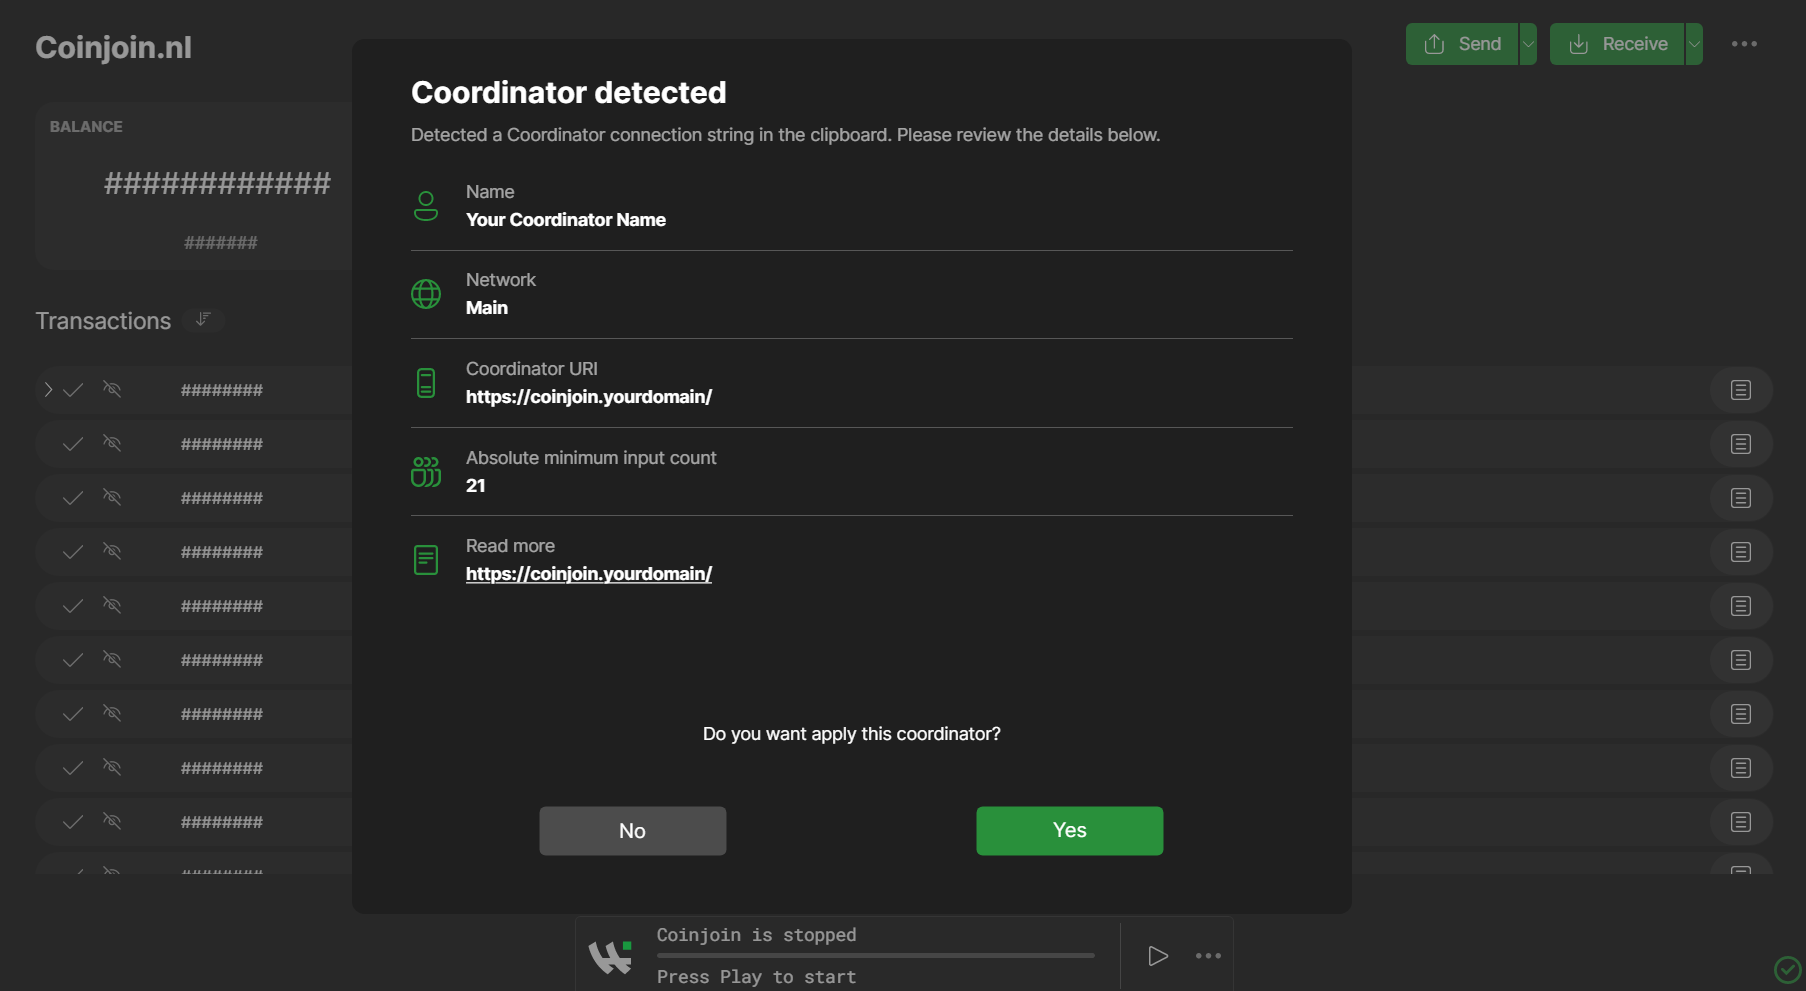
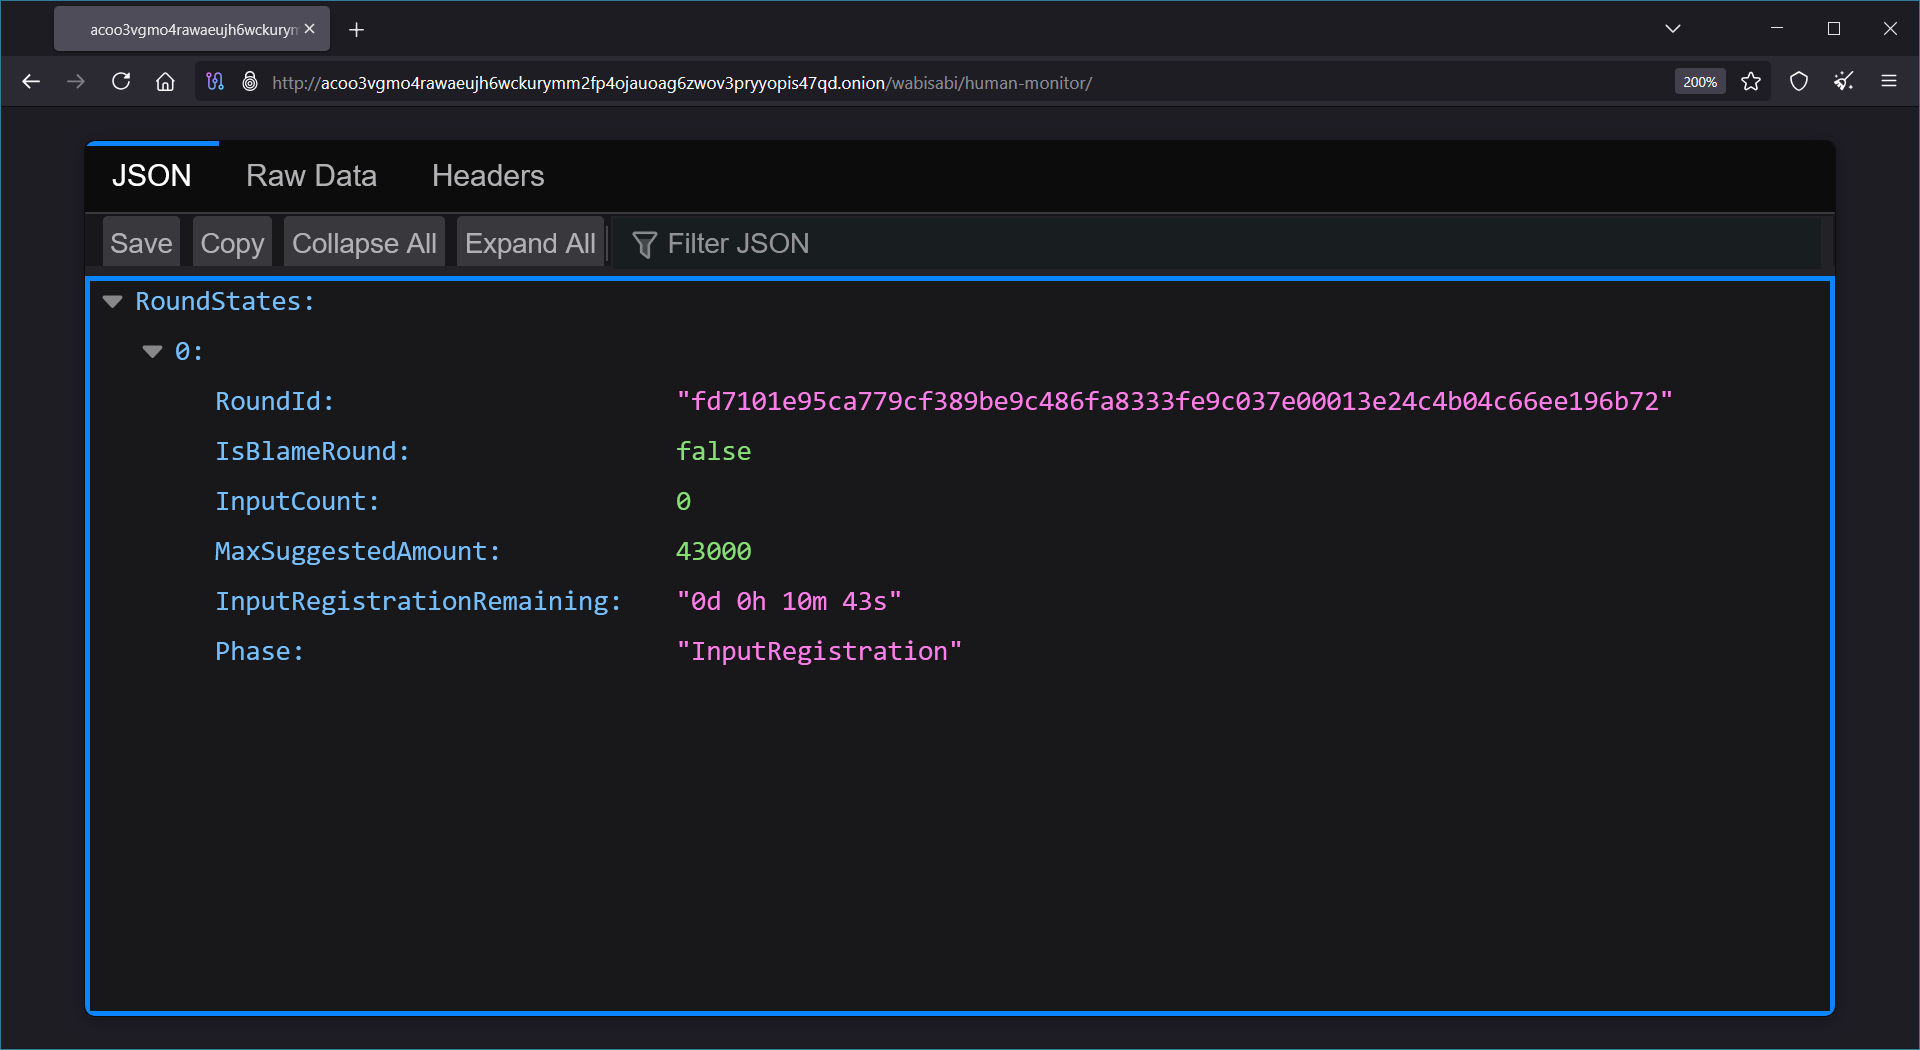
Added human-monitor image
There is an API accessible by web to check the current round, I've added this with an example image of Tor Browser.

diff --git a/tutorials/privacy/coinjoin-coordinator/en.md b/tutorials/privacy/coinjoin-coordinator/en.md
@@ -199,6 +199,12 @@ Simply start the coordinator with the command:
 ```
 ASPNETCORE_URLS="http://localhost:5001" wcoordinator
 ```
+You can monitor the current round and number of registered UTXO's/coins by checking (in Tor browser for .onion): 
+
+```
+http://coinjoin.yourdomain/wabisabi/human-monitor/
+```
+![detected](assets/en/01.webp)
 
 ### Optional: debugging coordinator server
 
@@ -211,8 +217,6 @@ rpcbind=127.0.0.1
 rpcuser=your_bitcoin_rpcuser
 rpcpassword=your_bitcoin_rpcpassword
 ```
-
-
 
 ### Optional: Running the backend server
 
@@ -233,7 +237,7 @@ name=Your%20Coordinator%20Name&network=main&coordinatorUri=https://coinjoin.your
 ```
 When a user copies the magic link and opens their Wasabi Wallet, the software will automatically show the coordinator dialog with your domain and parameters.
 
-![detected](assets/en/01.webp)
+![detected](assets/en/02.webp)
 
 💚🍣 Congratulations on decentralizing bitcoin privacy 🕶
 
